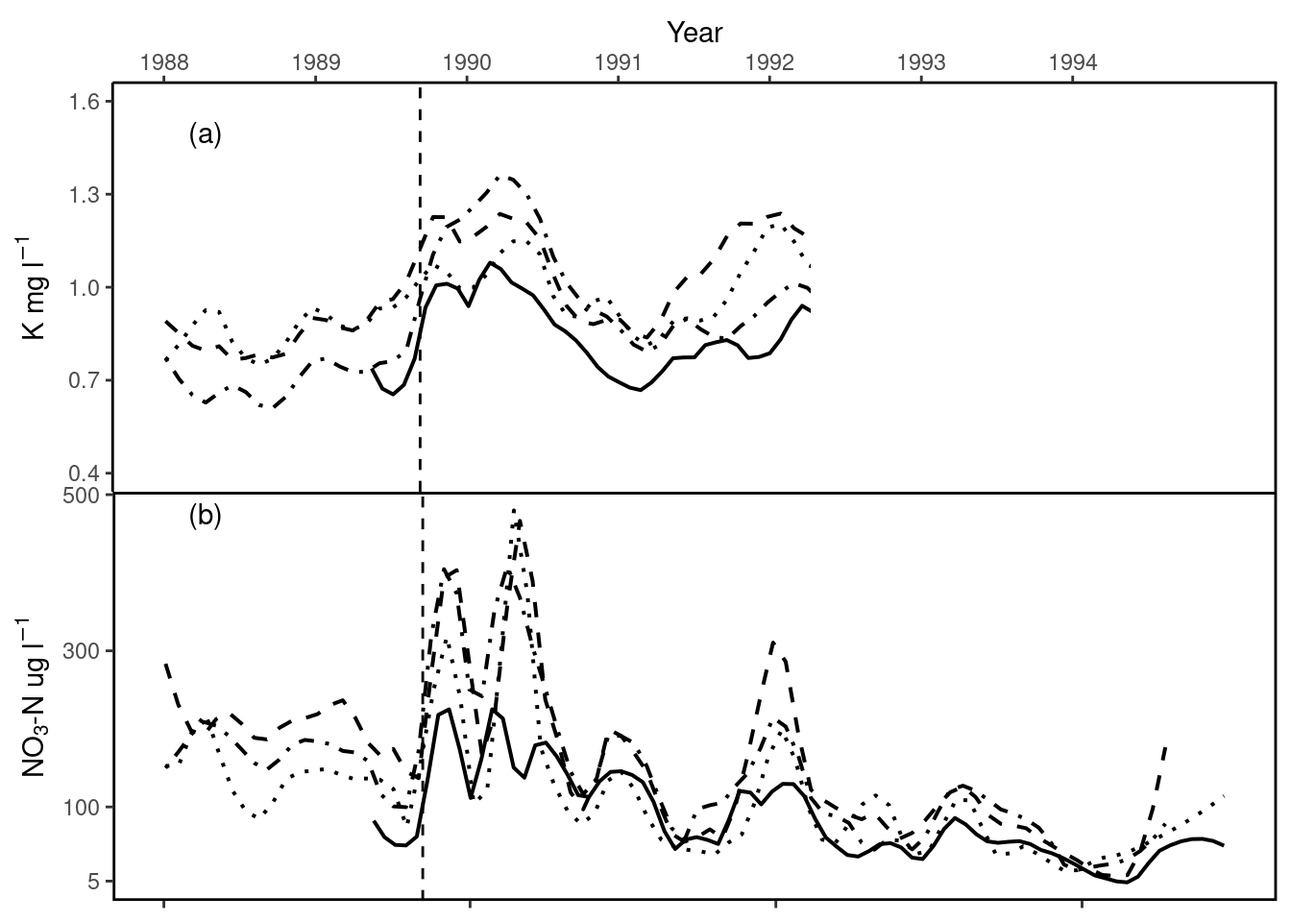
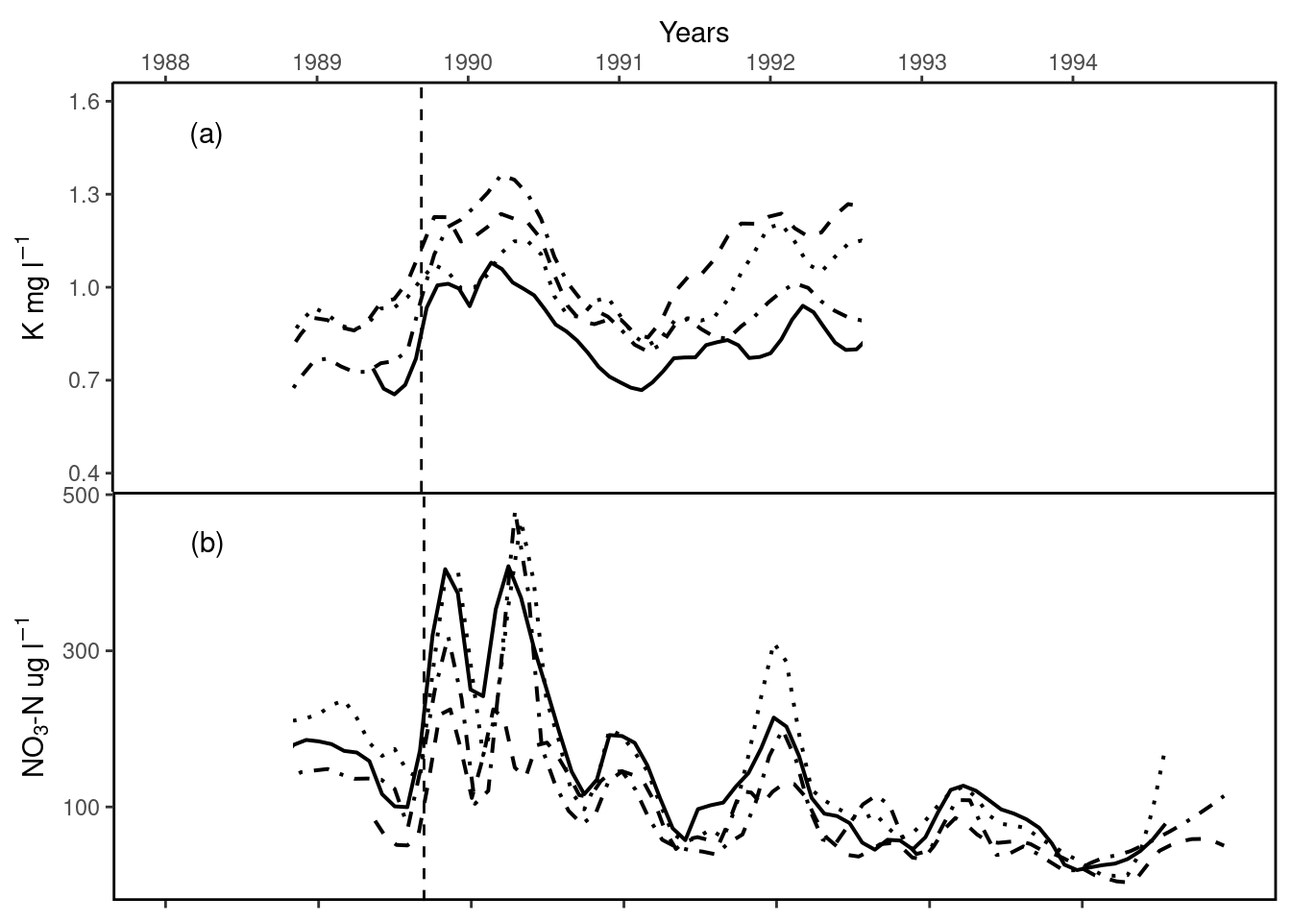
changes to quarto doc

diff --git a/ggplot_gurus_report.html b/ggplot_gurus_report.html
@@ -6,7 +6,6 @@
 
 <meta name="viewport" content="width=device-width, initial-scale=1.0, user-scalable=yes">
 
-<meta name="author" content="Kimmy, Ryan, Kai, Jo">
 
 <title>ggplot() gurus</title>
 <style>
@@ -155,7 +154,7 @@ code span.wa { color: #60a0b0; font-weight: bold; font-style: italic; } /* Warni
 <span id="cb2-2"><a href="#cb2-2" aria-hidden="true" tabindex="-1"></a><span class="fu">library</span>(janitor)</span>
 <span id="cb2-3"><a href="#cb2-3" aria-hidden="true" tabindex="-1"></a><span class="fu">library</span>(dplyr)</span>
 <span id="cb2-4"><a href="#cb2-4" aria-hidden="true" tabindex="-1"></a></span>
-<span id="cb2-5"><a href="#cb2-5" aria-hidden="true" tabindex="-1"></a><span class="co"># clean data names and select columns of interest(sample date, K, NO3_N)</span></span>
+<span id="cb2-5"><a href="#cb2-5" aria-hidden="true" tabindex="-1"></a><span class="co"># clean data names and select columns of interest(sample date, K, NO3_N) ----</span></span>
 <span id="cb2-6"><a href="#cb2-6" aria-hidden="true" tabindex="-1"></a>bq1_tidy <span class="ot">&lt;-</span> bq1 <span class="sc">%&gt;%</span></span>
 <span id="cb2-7"><a href="#cb2-7" aria-hidden="true" tabindex="-1"></a>  <span class="fu">select</span>(Sample_Date, K, <span class="st">`</span><span class="at">NO3-N</span><span class="st">`</span>) <span class="sc">%&gt;%</span></span>
 <span id="cb2-8"><a href="#cb2-8" aria-hidden="true" tabindex="-1"></a>  <span class="fu">clean_names</span>()</span>
@@ -175,7 +174,7 @@ code span.wa { color: #60a0b0; font-weight: bold; font-style: italic; } /* Warni
 <span id="cb2-22"><a href="#cb2-22" aria-hidden="true" tabindex="-1"></a>  <span class="fu">select</span>(Sample_Date, K, <span class="st">`</span><span class="at">NO3-N</span><span class="st">`</span>) <span class="sc">%&gt;%</span></span>
 <span id="cb2-23"><a href="#cb2-23" aria-hidden="true" tabindex="-1"></a>  <span class="fu">clean_names</span>()</span>
 <span id="cb2-24"><a href="#cb2-24" aria-hidden="true" tabindex="-1"></a></span>
-<span id="cb2-25"><a href="#cb2-25" aria-hidden="true" tabindex="-1"></a><span class="co"># filter dates between 1988 and 1994</span></span>
+<span id="cb2-25"><a href="#cb2-25" aria-hidden="true" tabindex="-1"></a><span class="co"># filter dates between 1988 and 1994 ----</span></span>
 <span id="cb2-26"><a href="#cb2-26" aria-hidden="true" tabindex="-1"></a>bq3_tidy <span class="ot">&lt;-</span> bq3_tidy <span class="sc">%&gt;%</span></span>
 <span id="cb2-27"><a href="#cb2-27" aria-hidden="true" tabindex="-1"></a>  <span class="fu">filter</span>(<span class="fu">between</span>(sample_date, <span class="fu">as.Date</span>(<span class="st">'1988-01-01'</span>), <span class="fu">as.Date</span>(<span class="st">'1994-12-31'</span>)))</span>
 <span id="cb2-28"><a href="#cb2-28" aria-hidden="true" tabindex="-1"></a></span>
@@ -205,7 +204,7 @@ code span.wa { color: #60a0b0; font-weight: bold; font-style: italic; } /* Warni
 <span id="cb3-13"><a href="#cb3-13" aria-hidden="true" tabindex="-1"></a>                     <span class="at">breaks =</span> <span class="fu">seq.Date</span>(<span class="at">from =</span> <span class="fu">as.Date</span>(<span class="st">"1988-01-01"</span>),</span>
 <span id="cb3-14"><a href="#cb3-14" aria-hidden="true" tabindex="-1"></a>                                       <span class="at">to =</span> <span class="fu">as.Date</span>(<span class="st">"1994-01-01"</span>) , <span class="at">by =</span> <span class="st">"1 year"</span>)) <span class="sc">+</span></span>
 <span id="cb3-15"><a href="#cb3-15" aria-hidden="true" tabindex="-1"></a>  <span class="fu">scale_y_continuous</span>(<span class="at">breaks=</span><span class="fu">seq</span>(<span class="fl">0.4</span>, <span class="fl">1.6</span>, <span class="at">by =</span> <span class="fl">0.3</span>), <span class="at">limits =</span> <span class="fu">c</span>(<span class="fl">0.4</span>, <span class="fl">1.6</span>)) <span class="sc">+</span></span>
-<span id="cb3-16"><a href="#cb3-16" aria-hidden="true" tabindex="-1"></a>  <span class="fu">labs</span>(<span class="at">x =</span> <span class="st">"Year"</span>, <span class="at">y =</span> <span class="fu">expression</span>(<span class="st">"K mg l"</span><span class="sc">^-</span><span class="dv">1</span>)) <span class="sc">+</span></span>
+<span id="cb3-16"><a href="#cb3-16" aria-hidden="true" tabindex="-1"></a>  <span class="fu">labs</span>(<span class="at">x =</span> <span class="st">"Years"</span>, <span class="at">y =</span> <span class="fu">expression</span>(<span class="st">"K mg l"</span><span class="sc">^-</span><span class="dv">1</span>)) <span class="sc">+</span></span>
 <span id="cb3-17"><a href="#cb3-17" aria-hidden="true" tabindex="-1"></a>  <span class="fu">theme</span>(<span class="at">plot.margin =</span> <span class="fu">margin</span>(<span class="dv">0</span>, <span class="dv">0</span>, <span class="dv">0</span>, <span class="dv">0</span>),</span>
 <span id="cb3-18"><a href="#cb3-18" aria-hidden="true" tabindex="-1"></a>        <span class="at">panel.spacing =</span> <span class="fu">unit</span>(<span class="dv">0</span>, <span class="st">"lines"</span>),</span>
 <span id="cb3-19"><a href="#cb3-19" aria-hidden="true" tabindex="-1"></a>        <span class="at">panel.background =</span> <span class="fu">element_blank</span>(),</span>
@@ -214,43 +213,56 @@ code span.wa { color: #60a0b0; font-weight: bold; font-style: italic; } /* Warni
 <span id="cb3-22"><a href="#cb3-22" aria-hidden="true" tabindex="-1"></a>        <span class="at">axis.line.y.right =</span>  <span class="fu">element_line</span>(<span class="at">colour =</span> <span class="st">"black"</span>,<span class="at">linewidth=</span><span class="fl">0.5</span>),</span>
 <span id="cb3-23"><a href="#cb3-23" aria-hidden="true" tabindex="-1"></a>        <span class="at">axis.line.y.left =</span>  <span class="fu">element_line</span>(<span class="at">colour =</span> <span class="st">"black"</span>,<span class="at">linewidth=</span><span class="fl">0.5</span>)) <span class="sc">+</span></span>
 <span id="cb3-24"><a href="#cb3-24" aria-hidden="true" tabindex="-1"></a>  <span class="fu">geom_vline</span>(<span class="at">xintercept =</span> <span class="fu">as.numeric</span>(<span class="fu">as.Date</span>(<span class="st">"1989-09-10"</span>)), </span>
-<span id="cb3-25"><a href="#cb3-25" aria-hidden="true" tabindex="-1"></a>           <span class="at">color =</span> <span class="st">"black"</span>, <span class="at">linetype =</span> <span class="st">"dashed"</span>) <span class="sc">+</span></span>
+<span id="cb3-25"><a href="#cb3-25" aria-hidden="true" tabindex="-1"></a>             <span class="at">color =</span> <span class="st">"black"</span>, <span class="at">linetype =</span> <span class="st">"dashed"</span>) <span class="sc">+</span></span>
 <span id="cb3-26"><a href="#cb3-26" aria-hidden="true" tabindex="-1"></a>  <span class="fu">annotate</span>(<span class="st">"text"</span>, <span class="at">x =</span> <span class="fu">as.numeric</span>(<span class="fu">as.Date</span>(<span class="st">"1988-04-10"</span>)),</span>
 <span id="cb3-27"><a href="#cb3-27" aria-hidden="true" tabindex="-1"></a>           <span class="at">y =</span> <span class="fl">1.5</span>, <span class="at">label =</span> <span class="st">"(a)"</span>, <span class="at">color =</span> <span class="st">"black"</span>) <span class="sc">+</span></span>
 <span id="cb3-28"><a href="#cb3-28" aria-hidden="true" tabindex="-1"></a>  <span class="fu">annotate</span>(<span class="at">geom =</span> <span class="st">'segment'</span>, <span class="at">x =</span> <span class="cn">Inf</span>, <span class="at">xend =</span> <span class="cn">Inf</span>, <span class="at">color =</span> <span class="st">'black'</span>, <span class="at">y =</span> <span class="sc">-</span><span class="cn">Inf</span>, <span class="at">yend =</span> <span class="cn">Inf</span>, <span class="at">size =</span> <span class="dv">1</span>) <span class="sc">+</span></span>
-<span id="cb3-29"><a href="#cb3-29" aria-hidden="true" tabindex="-1"></a>  <span class="fu">geom_rect</span>(<span class="fu">aes</span>(<span class="at">xmin =</span> <span class="fu">as.Date</span>(<span class="st">"1992-04-10"</span>),</span>
+<span id="cb3-29"><a href="#cb3-29" aria-hidden="true" tabindex="-1"></a>  <span class="fu">geom_rect</span>(<span class="fu">aes</span>(<span class="at">xmin =</span> <span class="fu">as.Date</span>(<span class="st">"1992-08-10"</span>),</span>
 <span id="cb3-30"><a href="#cb3-30" aria-hidden="true" tabindex="-1"></a>                <span class="at">xmax =</span> <span class="fu">as.Date</span>(<span class="st">"1995-01-01"</span>),</span>
 <span id="cb3-31"><a href="#cb3-31" aria-hidden="true" tabindex="-1"></a>                <span class="at">ymin =</span> <span class="fl">0.5</span>,</span>
 <span id="cb3-32"><a href="#cb3-32" aria-hidden="true" tabindex="-1"></a>                <span class="at">ymax =</span> <span class="fl">1.5</span>,),</span>
-<span id="cb3-33"><a href="#cb3-33" aria-hidden="true" tabindex="-1"></a>            <span class="at">fill =</span> <span class="st">"white"</span>)</span>
-<span id="cb3-34"><a href="#cb3-34" aria-hidden="true" tabindex="-1"></a></span>
-<span id="cb3-35"><a href="#cb3-35" aria-hidden="true" tabindex="-1"></a>  </span>
-<span id="cb3-36"><a href="#cb3-36" aria-hidden="true" tabindex="-1"></a>no3_n_plot <span class="ot">&lt;-</span> <span class="fu">ggplot</span>() <span class="sc">+</span>  </span>
-<span id="cb3-37"><a href="#cb3-37" aria-hidden="true" tabindex="-1"></a>  <span class="fu">geom_smooth</span>(<span class="at">data=</span> bq2_tidy, <span class="fu">aes</span>(<span class="at">x=</span> sample_date, <span class="at">y =</span> no3_n), <span class="at">linetype =</span> <span class="st">"dashed"</span></span>
-<span id="cb3-38"><a href="#cb3-38" aria-hidden="true" tabindex="-1"></a>              , <span class="at">color =</span> <span class="st">"black"</span>, <span class="at">linewidth =</span> .<span class="dv">7</span>, <span class="at">se =</span> <span class="cn">FALSE</span>, <span class="at">span =</span> <span class="fl">0.1</span>) <span class="sc">+</span></span>
-<span id="cb3-39"><a href="#cb3-39" aria-hidden="true" tabindex="-1"></a>  <span class="fu">geom_smooth</span>(<span class="at">data=</span> bq3_tidy, <span class="fu">aes</span>(<span class="at">x=</span> sample_date, <span class="at">y =</span> no3_n), <span class="at">linetype =</span> <span class="st">"dotdash"</span></span>
-<span id="cb3-40"><a href="#cb3-40" aria-hidden="true" tabindex="-1"></a>              , <span class="at">color =</span> <span class="st">"black"</span>, <span class="at">linewidth =</span> .<span class="dv">7</span>, <span class="at">se =</span> <span class="cn">FALSE</span>, <span class="at">span =</span> <span class="fl">0.1</span>) <span class="sc">+</span></span>
-<span id="cb3-41"><a href="#cb3-41" aria-hidden="true" tabindex="-1"></a>  <span class="fu">geom_smooth</span>(<span class="at">data=</span> prm_tidy, <span class="fu">aes</span>(<span class="at">x=</span> sample_date, <span class="at">y =</span> no3_n), <span class="at">linetype=</span> <span class="st">"solid"</span></span>
-<span id="cb3-42"><a href="#cb3-42" aria-hidden="true" tabindex="-1"></a>              , <span class="at">color =</span> <span class="st">"black"</span>, <span class="at">linewidth =</span> .<span class="dv">7</span>, <span class="at">se =</span> <span class="cn">FALSE</span>, <span class="at">span =</span> <span class="fl">0.1</span>) <span class="sc">+</span></span>
-<span id="cb3-43"><a href="#cb3-43" aria-hidden="true" tabindex="-1"></a>  <span class="fu">geom_smooth</span>(<span class="at">data=</span> bq1_tidy, <span class="fu">aes</span>(<span class="at">x=</span> sample_date, <span class="at">y =</span> no3_n), <span class="at">linetype =</span> <span class="st">"dotted"</span></span>
-<span id="cb3-44"><a href="#cb3-44" aria-hidden="true" tabindex="-1"></a>              , <span class="at">color =</span> <span class="st">"black"</span>, <span class="at">linewidth =</span> .<span class="dv">7</span>, <span class="at">se =</span> <span class="cn">FALSE</span>, <span class="at">span =</span> <span class="fl">0.1</span>) <span class="sc">+</span></span>
-<span id="cb3-45"><a href="#cb3-45" aria-hidden="true" tabindex="-1"></a>  <span class="fu">scale_y_continuous</span>(<span class="at">breaks=</span><span class="fu">c</span>(<span class="dv">5</span>, <span class="dv">100</span>, <span class="dv">300</span>, <span class="dv">500</span>)) <span class="sc">+</span> </span>
-<span id="cb3-46"><a href="#cb3-46" aria-hidden="true" tabindex="-1"></a>  <span class="fu">labs</span>(<span class="at">x =</span> <span class="st">" "</span>, <span class="at">y =</span> (<span class="fu">expression</span>(NO[<span class="dv">3</span>]<span class="sc">*</span><span class="st">"-N ug l"</span><span class="sc">^-</span><span class="dv">1</span>))) <span class="sc">+</span> </span>
-<span id="cb3-47"><a href="#cb3-47" aria-hidden="true" tabindex="-1"></a>  <span class="fu">theme</span>(<span class="at">axis.title.x =</span> <span class="fu">element_blank</span>(),</span>
-<span id="cb3-48"><a href="#cb3-48" aria-hidden="true" tabindex="-1"></a>      <span class="at">axis.text.x =</span> <span class="fu">element_blank</span>(),</span>
-<span id="cb3-49"><a href="#cb3-49" aria-hidden="true" tabindex="-1"></a>      <span class="at">plot.margin =</span> <span class="fu">margin</span>(<span class="dv">0</span>, <span class="dv">0</span>, <span class="dv">0</span>, <span class="dv">0</span>),</span>
-<span id="cb3-50"><a href="#cb3-50" aria-hidden="true" tabindex="-1"></a>      <span class="at">panel.spacing =</span> <span class="fu">unit</span>(<span class="dv">0</span>, <span class="st">"lines"</span>),</span>
-<span id="cb3-51"><a href="#cb3-51" aria-hidden="true" tabindex="-1"></a>      <span class="at">panel.background =</span> <span class="fu">element_blank</span>(),</span>
-<span id="cb3-52"><a href="#cb3-52" aria-hidden="true" tabindex="-1"></a>      <span class="at">panel.border =</span> <span class="fu">element_rect</span>(<span class="at">colour =</span> <span class="st">"black"</span>, <span class="at">fill=</span><span class="cn">NA</span>, <span class="at">size=</span><span class="dv">1</span>)) <span class="sc">+</span></span>
-<span id="cb3-53"><a href="#cb3-53" aria-hidden="true" tabindex="-1"></a>  <span class="fu">geom_vline</span>(<span class="at">xintercept =</span> <span class="fu">as.numeric</span>(<span class="fu">as.Date</span>(<span class="st">"1989-09-10"</span>)), </span>
-<span id="cb3-54"><a href="#cb3-54" aria-hidden="true" tabindex="-1"></a>             <span class="at">color =</span> <span class="st">"black"</span>, <span class="at">linetype =</span> <span class="st">"dashed"</span>) <span class="sc">+</span></span>
-<span id="cb3-55"><a href="#cb3-55" aria-hidden="true" tabindex="-1"></a>  <span class="fu">annotate</span>(<span class="st">"text"</span>, <span class="at">x =</span> (<span class="fu">as.Date</span>(<span class="st">"1988-04-10"</span>, <span class="st">"%Y-%m-%d"</span>)),</span>
-<span id="cb3-56"><a href="#cb3-56" aria-hidden="true" tabindex="-1"></a>           <span class="at">y =</span> <span class="dv">475</span>, <span class="at">label =</span> <span class="st">"(b)"</span>, <span class="at">color =</span> <span class="st">"black"</span>) </span>
-<span id="cb3-57"><a href="#cb3-57" aria-hidden="true" tabindex="-1"></a></span>
-<span id="cb3-58"><a href="#cb3-58" aria-hidden="true" tabindex="-1"></a>combined_plot <span class="ot">&lt;-</span> k_plot <span class="sc">/</span> no3_n_plot <span class="sc">+</span></span>
-<span id="cb3-59"><a href="#cb3-59" aria-hidden="true" tabindex="-1"></a>  <span class="fu">plot_layout</span>(<span class="at">ncol =</span> <span class="dv">1</span>, <span class="at">heights =</span> <span class="fu">c</span>(<span class="dv">1</span>, <span class="dv">1</span>))</span>
-<span id="cb3-60"><a href="#cb3-60" aria-hidden="true" tabindex="-1"></a></span>
-<span id="cb3-61"><a href="#cb3-61" aria-hidden="true" tabindex="-1"></a>combined_plot</span></code><button title="Copy to Clipboard" class="code-copy-button"><i class="bi"></i></button></pre></div>
+<span id="cb3-33"><a href="#cb3-33" aria-hidden="true" tabindex="-1"></a>            <span class="at">fill =</span> <span class="st">"white"</span>) <span class="sc">+</span></span>
+<span id="cb3-34"><a href="#cb3-34" aria-hidden="true" tabindex="-1"></a>  <span class="fu">geom_rect</span>(<span class="fu">aes</span>(<span class="at">xmin =</span> <span class="fu">as.Date</span>(<span class="st">"1988-01-01"</span>),</span>
+<span id="cb3-35"><a href="#cb3-35" aria-hidden="true" tabindex="-1"></a>                <span class="at">xmax =</span> <span class="fu">as.Date</span>(<span class="st">"1988-11-01"</span>),</span>
+<span id="cb3-36"><a href="#cb3-36" aria-hidden="true" tabindex="-1"></a>                <span class="at">ymin =</span> <span class="fl">0.5</span>,</span>
+<span id="cb3-37"><a href="#cb3-37" aria-hidden="true" tabindex="-1"></a>                <span class="at">ymax =</span> <span class="fl">1.3</span>,),</span>
+<span id="cb3-38"><a href="#cb3-38" aria-hidden="true" tabindex="-1"></a>            <span class="at">fill =</span> <span class="st">"white"</span>)</span>
+<span id="cb3-39"><a href="#cb3-39" aria-hidden="true" tabindex="-1"></a></span>
+<span id="cb3-40"><a href="#cb3-40" aria-hidden="true" tabindex="-1"></a></span>
+<span id="cb3-41"><a href="#cb3-41" aria-hidden="true" tabindex="-1"></a>no3_n_plot <span class="ot">&lt;-</span> <span class="fu">ggplot</span>() <span class="sc">+</span>  </span>
+<span id="cb3-42"><a href="#cb3-42" aria-hidden="true" tabindex="-1"></a>  <span class="fu">geom_smooth</span>(<span class="at">data=</span> bq2_tidy, <span class="fu">aes</span>(<span class="at">x=</span> sample_date, <span class="at">y =</span> no3_n), <span class="at">linetype =</span> <span class="st">"dotted"</span></span>
+<span id="cb3-43"><a href="#cb3-43" aria-hidden="true" tabindex="-1"></a>              , <span class="at">color =</span> <span class="st">"black"</span>, <span class="at">linewidth =</span> .<span class="dv">7</span>, <span class="at">se =</span> <span class="cn">FALSE</span>, <span class="at">span =</span> <span class="fl">0.1</span>) <span class="sc">+</span></span>
+<span id="cb3-44"><a href="#cb3-44" aria-hidden="true" tabindex="-1"></a>  <span class="fu">geom_smooth</span>(<span class="at">data=</span> bq3_tidy, <span class="fu">aes</span>(<span class="at">x=</span> sample_date, <span class="at">y =</span> no3_n), <span class="at">linetype =</span> <span class="st">"solid"</span></span>
+<span id="cb3-45"><a href="#cb3-45" aria-hidden="true" tabindex="-1"></a>              , <span class="at">color =</span> <span class="st">"black"</span>, <span class="at">linewidth =</span> .<span class="dv">7</span>, <span class="at">se =</span> <span class="cn">FALSE</span>, <span class="at">span =</span> <span class="fl">0.1</span>) <span class="sc">+</span></span>
+<span id="cb3-46"><a href="#cb3-46" aria-hidden="true" tabindex="-1"></a>  <span class="fu">geom_smooth</span>(<span class="at">data=</span> prm_tidy, <span class="fu">aes</span>(<span class="at">x=</span> sample_date, <span class="at">y =</span> no3_n), <span class="at">linetype=</span> <span class="st">"dashed"</span></span>
+<span id="cb3-47"><a href="#cb3-47" aria-hidden="true" tabindex="-1"></a>              , <span class="at">color =</span> <span class="st">"black"</span>, <span class="at">linewidth =</span> .<span class="dv">7</span>, <span class="at">se =</span> <span class="cn">FALSE</span>, <span class="at">span =</span> <span class="fl">0.1</span>) <span class="sc">+</span></span>
+<span id="cb3-48"><a href="#cb3-48" aria-hidden="true" tabindex="-1"></a>  <span class="fu">geom_smooth</span>(<span class="at">data=</span> bq1_tidy, <span class="fu">aes</span>(<span class="at">x=</span> sample_date, <span class="at">y =</span> no3_n), <span class="at">linetype =</span> <span class="st">"dotdash"</span></span>
+<span id="cb3-49"><a href="#cb3-49" aria-hidden="true" tabindex="-1"></a>              , <span class="at">color =</span> <span class="st">"black"</span>, <span class="at">linewidth =</span> .<span class="dv">7</span>, <span class="at">se =</span> <span class="cn">FALSE</span>, <span class="at">span =</span> <span class="fl">0.1</span>) <span class="sc">+</span></span>
+<span id="cb3-50"><a href="#cb3-50" aria-hidden="true" tabindex="-1"></a>  <span class="fu">scale_y_continuous</span>(<span class="at">breaks =</span> <span class="fu">c</span>(<span class="dv">100</span>, <span class="dv">300</span>, <span class="dv">500</span>))  <span class="sc">+</span></span>
+<span id="cb3-51"><a href="#cb3-51" aria-hidden="true" tabindex="-1"></a>  <span class="fu">scale_x_continuous</span>(<span class="at">position =</span> <span class="st">"bottom"</span>, <span class="at">labels =</span> <span class="dv">1988</span><span class="sc">:</span><span class="dv">1994</span>,</span>
+<span id="cb3-52"><a href="#cb3-52" aria-hidden="true" tabindex="-1"></a>                     <span class="at">breaks =</span> <span class="fu">seq.Date</span>(<span class="at">from =</span> <span class="fu">as.Date</span>(<span class="st">"1988-01-01"</span>),</span>
+<span id="cb3-53"><a href="#cb3-53" aria-hidden="true" tabindex="-1"></a>                                       <span class="at">to =</span> <span class="fu">as.Date</span>(<span class="st">"1994-01-01"</span>) , <span class="at">by =</span> <span class="st">"1 year"</span>)) <span class="sc">+</span></span>
+<span id="cb3-54"><a href="#cb3-54" aria-hidden="true" tabindex="-1"></a>  <span class="fu">labs</span>(<span class="at">x =</span> <span class="st">" "</span>, <span class="at">y =</span> (<span class="fu">expression</span>(NO[<span class="dv">3</span>]<span class="sc">*</span><span class="st">"-N ug l"</span><span class="sc">^-</span><span class="dv">1</span>))) <span class="sc">+</span> </span>
+<span id="cb3-55"><a href="#cb3-55" aria-hidden="true" tabindex="-1"></a>  <span class="fu">theme</span>(<span class="at">axis.title.x =</span> <span class="fu">element_blank</span>(),</span>
+<span id="cb3-56"><a href="#cb3-56" aria-hidden="true" tabindex="-1"></a>        <span class="at">axis.text.x =</span> <span class="fu">element_blank</span>(),</span>
+<span id="cb3-57"><a href="#cb3-57" aria-hidden="true" tabindex="-1"></a>        <span class="at">plot.margin =</span> <span class="fu">margin</span>(<span class="dv">0</span>, <span class="dv">0</span>, <span class="dv">0</span>, <span class="dv">0</span>),</span>
+<span id="cb3-58"><a href="#cb3-58" aria-hidden="true" tabindex="-1"></a>        <span class="at">panel.spacing =</span> <span class="fu">unit</span>(<span class="dv">0</span>, <span class="st">"lines"</span>),</span>
+<span id="cb3-59"><a href="#cb3-59" aria-hidden="true" tabindex="-1"></a>        <span class="at">panel.background =</span> <span class="fu">element_blank</span>(),</span>
+<span id="cb3-60"><a href="#cb3-60" aria-hidden="true" tabindex="-1"></a>        <span class="at">panel.border =</span> <span class="fu">element_rect</span>(<span class="at">colour =</span> <span class="st">"black"</span>, <span class="at">fill=</span><span class="cn">NA</span>, <span class="at">size=</span><span class="dv">1</span>)) <span class="sc">+</span></span>
+<span id="cb3-61"><a href="#cb3-61" aria-hidden="true" tabindex="-1"></a>  <span class="fu">geom_vline</span>(<span class="at">xintercept =</span> <span class="fu">as.numeric</span>(<span class="fu">as.Date</span>(<span class="st">"1989-09-10"</span>)), </span>
+<span id="cb3-62"><a href="#cb3-62" aria-hidden="true" tabindex="-1"></a>             <span class="at">color =</span> <span class="st">"black"</span>, <span class="at">linetype =</span> <span class="st">"dashed"</span>) <span class="sc">+</span></span>
+<span id="cb3-63"><a href="#cb3-63" aria-hidden="true" tabindex="-1"></a>  <span class="fu">annotate</span>(<span class="st">"text"</span>, <span class="at">x =</span> (<span class="fu">as.Date</span>(<span class="st">"1988-04-10"</span>, <span class="st">"%Y-%m-%d"</span>)),</span>
+<span id="cb3-64"><a href="#cb3-64" aria-hidden="true" tabindex="-1"></a>           <span class="at">y =</span> <span class="dv">440</span>, <span class="at">label =</span> <span class="st">"(b)"</span>, <span class="at">color =</span> <span class="st">"black"</span>)  <span class="sc">+</span></span>
+<span id="cb3-65"><a href="#cb3-65" aria-hidden="true" tabindex="-1"></a>  <span class="fu">geom_rect</span>(<span class="fu">aes</span>(<span class="at">xmin =</span> <span class="fu">as.Date</span>(<span class="st">"1988-01-01"</span>),</span>
+<span id="cb3-66"><a href="#cb3-66" aria-hidden="true" tabindex="-1"></a>                <span class="at">xmax =</span> <span class="fu">as.Date</span>(<span class="st">"1988-11-01"</span>),</span>
+<span id="cb3-67"><a href="#cb3-67" aria-hidden="true" tabindex="-1"></a>                <span class="at">ymin =</span> <span class="dv">10</span>,</span>
+<span id="cb3-68"><a href="#cb3-68" aria-hidden="true" tabindex="-1"></a>                <span class="at">ymax =</span> <span class="dv">300</span>),</span>
+<span id="cb3-69"><a href="#cb3-69" aria-hidden="true" tabindex="-1"></a>            <span class="at">fill =</span> <span class="st">"white"</span>)</span>
+<span id="cb3-70"><a href="#cb3-70" aria-hidden="true" tabindex="-1"></a></span>
+<span id="cb3-71"><a href="#cb3-71" aria-hidden="true" tabindex="-1"></a>combined_plot <span class="ot">&lt;-</span> k_plot <span class="sc">/</span> no3_n_plot <span class="sc">+</span></span>
+<span id="cb3-72"><a href="#cb3-72" aria-hidden="true" tabindex="-1"></a>  <span class="fu">plot_layout</span>(<span class="at">ncol =</span> <span class="dv">1</span>, <span class="at">heights =</span> <span class="fu">c</span>(<span class="dv">1</span>, <span class="dv">1</span>))</span>
+<span id="cb3-73"><a href="#cb3-73" aria-hidden="true" tabindex="-1"></a></span>
+<span id="cb3-74"><a href="#cb3-74" aria-hidden="true" tabindex="-1"></a>combined_plot</span></code><button title="Copy to Clipboard" class="code-copy-button"><i class="bi"></i></button></pre></div>
 <div class="cell-output-display">
 <p><img src="ggplot_gurus_report_files/figure-html/unnamed-chunk-3-1.png" class="img-fluid" width="672"></p>
 </div>
@@ -264,7 +276,7 @@ code span.wa { color: #60a0b0; font-weight: bold; font-style: italic; } /* Warni
 <span id="cb4-2"><a href="#cb4-2" aria-hidden="true" tabindex="-1"></a><span class="fu">library</span>(janitor)</span>
 <span id="cb4-3"><a href="#cb4-3" aria-hidden="true" tabindex="-1"></a><span class="fu">library</span>(dplyr)</span>
 <span id="cb4-4"><a href="#cb4-4" aria-hidden="true" tabindex="-1"></a></span>
-<span id="cb4-5"><a href="#cb4-5" aria-hidden="true" tabindex="-1"></a><span class="co"># data_read ---------------------------------------------------------------</span></span>
+<span id="cb4-5"><a href="#cb4-5" aria-hidden="true" tabindex="-1"></a><span class="co"># data_read ----</span></span>
 <span id="cb4-6"><a href="#cb4-6" aria-hidden="true" tabindex="-1"></a></span>
 <span id="cb4-7"><a href="#cb4-7" aria-hidden="true" tabindex="-1"></a></span>
 <span id="cb4-8"><a href="#cb4-8" aria-hidden="true" tabindex="-1"></a>ggg_path <span class="ot">&lt;-</span> <span class="st">"/courses/EDS214/group_project/2024/ggplot-gurus/raw_data"</span></span>
@@ -278,7 +290,7 @@ code span.wa { color: #60a0b0; font-weight: bold; font-style: italic; } /* Warni
 <span id="cb4-16"><a href="#cb4-16" aria-hidden="true" tabindex="-1"></a>prm <span class="ot">&lt;-</span> <span class="fu">read_csv</span>(<span class="fu">file.path</span>(ggg_path, <span class="st">"RioMameyesPuenteRoto.csv"</span>))</span>
 <span id="cb4-17"><a href="#cb4-17" aria-hidden="true" tabindex="-1"></a></span>
 <span id="cb4-18"><a href="#cb4-18" aria-hidden="true" tabindex="-1"></a></span>
-<span id="cb4-19"><a href="#cb4-19" aria-hidden="true" tabindex="-1"></a><span class="co"># data_clean --------------------------------------------------------------</span></span>
+<span id="cb4-19"><a href="#cb4-19" aria-hidden="true" tabindex="-1"></a><span class="co"># data_clean ----</span></span>
 <span id="cb4-20"><a href="#cb4-20" aria-hidden="true" tabindex="-1"></a></span>
 <span id="cb4-21"><a href="#cb4-21" aria-hidden="true" tabindex="-1"></a>bq1_tidy_maria <span class="ot">&lt;-</span> bq1 <span class="sc">%&gt;%</span></span>
 <span id="cb4-22"><a href="#cb4-22" aria-hidden="true" tabindex="-1"></a>  <span class="fu">select</span>(Sample_Date, K, <span class="st">`</span><span class="at">NO3-N</span><span class="st">`</span>) <span class="sc">%&gt;%</span></span>
@@ -312,7 +324,7 @@ code span.wa { color: #60a0b0; font-weight: bold; font-style: italic; } /* Warni
 <span id="cb4-50"><a href="#cb4-50" aria-hidden="true" tabindex="-1"></a></span>
 <span id="cb4-51"><a href="#cb4-51" aria-hidden="true" tabindex="-1"></a></span>
 <span id="cb4-52"><a href="#cb4-52" aria-hidden="true" tabindex="-1"></a></span>
-<span id="cb4-53"><a href="#cb4-53" aria-hidden="true" tabindex="-1"></a><span class="co"># data_viz ----------------------------------------------------------------</span></span>
+<span id="cb4-53"><a href="#cb4-53" aria-hidden="true" tabindex="-1"></a><span class="co"># data_viz ----</span></span>
 <span id="cb4-54"><a href="#cb4-54" aria-hidden="true" tabindex="-1"></a></span>
 <span id="cb4-55"><a href="#cb4-55" aria-hidden="true" tabindex="-1"></a><span class="co">#048A81</span></span>
 <span id="cb4-56"><a href="#cb4-56" aria-hidden="true" tabindex="-1"></a><span class="co">#06D6A0</span></span>
@@ -336,37 +348,26 @@ code span.wa { color: #60a0b0; font-weight: bold; font-style: italic; } /* Warni
 <span id="cb4-74"><a href="#cb4-74" aria-hidden="true" tabindex="-1"></a>        <span class="at">plot.title =</span> <span class="fu">element_text</span>(<span class="at">hjust =</span> <span class="fl">0.5</span>, <span class="at">size=</span> <span class="dv">25</span>)) <span class="sc">+</span></span>
 <span id="cb4-75"><a href="#cb4-75" aria-hidden="true" tabindex="-1"></a>  <span class="fu">labs</span>(<span class="at">x=</span><span class="st">"Sample Date"</span>, <span class="at">y=</span><span class="st">"Potassium Content</span><span class="sc">\n</span><span class="st">(mg/L)"</span>, <span class="at">title =</span> <span class="st">"Effects of Hurricane Maria on Potassium Content in Luquillo Creeks"</span>)</span>
 <span id="cb4-76"><a href="#cb4-76" aria-hidden="true" tabindex="-1"></a> </span>
-<span id="cb4-77"><a href="#cb4-77" aria-hidden="true" tabindex="-1"></a><span class="do">#####</span></span>
-<span id="cb4-78"><a href="#cb4-78" aria-hidden="true" tabindex="-1"></a></span>
-<span id="cb4-79"><a href="#cb4-79" aria-hidden="true" tabindex="-1"></a>no3_n_maria <span class="ot">&lt;-</span> <span class="fu">ggplot</span>() <span class="sc">+</span>  </span>
-<span id="cb4-80"><a href="#cb4-80" aria-hidden="true" tabindex="-1"></a>  <span class="fu">geom_line</span>(<span class="at">data =</span> bq1_tidy_maria, <span class="fu">aes</span>(<span class="at">x =</span> sample_date, <span class="at">y =</span> no3_n, <span class="at">color =</span> <span class="st">"BQ1"</span>), <span class="at">size =</span> <span class="fl">1.5</span>) <span class="sc">+</span></span>
-<span id="cb4-81"><a href="#cb4-81" aria-hidden="true" tabindex="-1"></a>  <span class="fu">geom_line</span>(<span class="at">data =</span> bq2_tidy_maria, <span class="fu">aes</span>(<span class="at">x =</span> sample_date, <span class="at">y =</span> no3_n, <span class="at">color =</span> <span class="st">"BQ2"</span>), <span class="at">size =</span> <span class="fl">1.5</span>) <span class="sc">+</span></span>
-<span id="cb4-82"><a href="#cb4-82" aria-hidden="true" tabindex="-1"></a>  <span class="fu">geom_line</span>(<span class="at">data =</span> bq3_tidy_maria, <span class="fu">aes</span>(<span class="at">x =</span> sample_date, <span class="at">y =</span> no3_n, <span class="at">color =</span> <span class="st">"BQ3"</span>), <span class="at">size =</span> <span class="fl">1.5</span>) <span class="sc">+</span></span>
-<span id="cb4-83"><a href="#cb4-83" aria-hidden="true" tabindex="-1"></a>  <span class="fu">geom_line</span>(<span class="at">data =</span> prm_tidy_maria, <span class="fu">aes</span>(<span class="at">x =</span> sample_date, <span class="at">y =</span> no3_n, <span class="at">color =</span> <span class="st">"PRM"</span>), <span class="at">size =</span> <span class="fl">1.5</span>) <span class="sc">+</span></span>
-<span id="cb4-84"><a href="#cb4-84" aria-hidden="true" tabindex="-1"></a>  <span class="fu">scale_color_manual</span>(<span class="at">values =</span> <span class="fu">c</span>(<span class="st">"BQ1"</span> <span class="ot">=</span> <span class="st">"#048A81"</span>, <span class="st">"BQ2"</span> <span class="ot">=</span> <span class="st">"#06D6A0"</span>, <span class="st">"BQ3"</span> <span class="ot">=</span> <span class="st">"#54C6EB"</span>, <span class="st">"PRM"</span> <span class="ot">=</span> <span class="st">"#8A89C0"</span>)) <span class="sc">+</span></span>
-<span id="cb4-85"><a href="#cb4-85" aria-hidden="true" tabindex="-1"></a>  <span class="fu">geom_vline</span>(<span class="at">xintercept =</span> <span class="fu">as.Date</span>(<span class="st">"2017-09-16"</span>), <span class="at">linetype =</span> <span class="st">"dashed"</span>, <span class="at">color=</span><span class="st">"navy"</span>) <span class="sc">+</span></span>
-<span id="cb4-86"><a href="#cb4-86" aria-hidden="true" tabindex="-1"></a>  <span class="fu">annotate</span>(<span class="st">"text"</span>, <span class="at">x=</span><span class="fu">as.Date</span>(<span class="st">"2017-07-10"</span>), <span class="at">y=</span><span class="dv">700</span>, <span class="at">label=</span> <span class="st">"Hurricane Maria</span><span class="sc">\n</span><span class="st">September 16, 2017"</span>) <span class="sc">+</span></span>
-<span id="cb4-87"><a href="#cb4-87" aria-hidden="true" tabindex="-1"></a>  <span class="fu">labs</span>(<span class="at">color =</span> <span class="st">"Sites"</span>) <span class="sc">+</span></span>
-<span id="cb4-88"><a href="#cb4-88" aria-hidden="true" tabindex="-1"></a>  <span class="fu">theme</span>(<span class="at">legend.position =</span> <span class="fu">c</span>(<span class="fl">0.2</span>, <span class="fl">0.8</span>),</span>
-<span id="cb4-89"><a href="#cb4-89" aria-hidden="true" tabindex="-1"></a>        <span class="at">legend.background =</span> <span class="fu">element_blank</span>(),</span>
-<span id="cb4-90"><a href="#cb4-90" aria-hidden="true" tabindex="-1"></a>        <span class="at">legend.key.size =</span> <span class="fu">unit</span>(<span class="dv">10</span>, <span class="st">'cm'</span>),</span>
-<span id="cb4-91"><a href="#cb4-91" aria-hidden="true" tabindex="-1"></a>        <span class="at">legend.key.height  =</span> <span class="fu">unit</span>(<span class="dv">1</span>, <span class="st">'cm'</span>),</span>
-<span id="cb4-92"><a href="#cb4-92" aria-hidden="true" tabindex="-1"></a>        <span class="at">legend.key.width =</span> <span class="fu">unit</span>(<span class="dv">4</span>, <span class="st">'cm'</span>),</span>
-<span id="cb4-93"><a href="#cb4-93" aria-hidden="true" tabindex="-1"></a>        <span class="at">plot.title =</span> <span class="fu">element_text</span>(<span class="at">hjust =</span> <span class="fl">0.5</span>, <span class="at">size=</span> <span class="dv">25</span>)) <span class="sc">+</span></span>
-<span id="cb4-94"><a href="#cb4-94" aria-hidden="true" tabindex="-1"></a>  <span class="fu">labs</span>(<span class="at">x=</span><span class="st">"Sample Date"</span>, <span class="at">y=</span><span class="st">"Nitrate Content</span><span class="sc">\n</span><span class="st">(μg/L)"</span>, <span class="at">title =</span> <span class="st">"Effects of Hurricane Maria on Nitrate Content in Luquillo Creeks"</span>)</span>
-<span id="cb4-95"><a href="#cb4-95" aria-hidden="true" tabindex="-1"></a></span>
-<span id="cb4-96"><a href="#cb4-96" aria-hidden="true" tabindex="-1"></a></span>
-<span id="cb4-97"><a href="#cb4-97" aria-hidden="true" tabindex="-1"></a><span class="do">######</span></span>
-<span id="cb4-98"><a href="#cb4-98" aria-hidden="true" tabindex="-1"></a></span>
-<span id="cb4-99"><a href="#cb4-99" aria-hidden="true" tabindex="-1"></a>k_plot_maria</span></code><button title="Copy to Clipboard" class="code-copy-button"><i class="bi"></i></button></pre></div>
-<div class="cell-output-display">
-<p><img src="ggplot_gurus_report_files/figure-html/unnamed-chunk-4-1.png" class="img-fluid" width="672"></p>
+<span id="cb4-77"><a href="#cb4-77" aria-hidden="true" tabindex="-1"></a></span>
+<span id="cb4-78"><a href="#cb4-78" aria-hidden="true" tabindex="-1"></a>no3_n_maria <span class="ot">&lt;-</span> <span class="fu">ggplot</span>() <span class="sc">+</span>  </span>
+<span id="cb4-79"><a href="#cb4-79" aria-hidden="true" tabindex="-1"></a>  <span class="fu">geom_line</span>(<span class="at">data =</span> bq1_tidy_maria, <span class="fu">aes</span>(<span class="at">x =</span> sample_date, <span class="at">y =</span> no3_n, <span class="at">color =</span> <span class="st">"BQ1"</span>), <span class="at">size =</span> <span class="fl">1.5</span>) <span class="sc">+</span></span>
+<span id="cb4-80"><a href="#cb4-80" aria-hidden="true" tabindex="-1"></a>  <span class="fu">geom_line</span>(<span class="at">data =</span> bq2_tidy_maria, <span class="fu">aes</span>(<span class="at">x =</span> sample_date, <span class="at">y =</span> no3_n, <span class="at">color =</span> <span class="st">"BQ2"</span>), <span class="at">size =</span> <span class="fl">1.5</span>) <span class="sc">+</span></span>
+<span id="cb4-81"><a href="#cb4-81" aria-hidden="true" tabindex="-1"></a>  <span class="fu">geom_line</span>(<span class="at">data =</span> bq3_tidy_maria, <span class="fu">aes</span>(<span class="at">x =</span> sample_date, <span class="at">y =</span> no3_n, <span class="at">color =</span> <span class="st">"BQ3"</span>), <span class="at">size =</span> <span class="fl">1.5</span>) <span class="sc">+</span></span>
+<span id="cb4-82"><a href="#cb4-82" aria-hidden="true" tabindex="-1"></a>  <span class="fu">geom_line</span>(<span class="at">data =</span> prm_tidy_maria, <span class="fu">aes</span>(<span class="at">x =</span> sample_date, <span class="at">y =</span> no3_n, <span class="at">color =</span> <span class="st">"PRM"</span>), <span class="at">size =</span> <span class="fl">1.5</span>) <span class="sc">+</span></span>
+<span id="cb4-83"><a href="#cb4-83" aria-hidden="true" tabindex="-1"></a>  <span class="fu">scale_color_manual</span>(<span class="at">values =</span> <span class="fu">c</span>(<span class="st">"BQ1"</span> <span class="ot">=</span> <span class="st">"#048A81"</span>, <span class="st">"BQ2"</span> <span class="ot">=</span> <span class="st">"#06D6A0"</span>, <span class="st">"BQ3"</span> <span class="ot">=</span> <span class="st">"#54C6EB"</span>, <span class="st">"PRM"</span> <span class="ot">=</span> <span class="st">"#8A89C0"</span>)) <span class="sc">+</span></span>
+<span id="cb4-84"><a href="#cb4-84" aria-hidden="true" tabindex="-1"></a>  <span class="fu">geom_vline</span>(<span class="at">xintercept =</span> <span class="fu">as.Date</span>(<span class="st">"2017-09-16"</span>), <span class="at">linetype =</span> <span class="st">"dashed"</span>, <span class="at">color=</span><span class="st">"navy"</span>) <span class="sc">+</span></span>
+<span id="cb4-85"><a href="#cb4-85" aria-hidden="true" tabindex="-1"></a>  <span class="fu">annotate</span>(<span class="st">"text"</span>, <span class="at">x=</span><span class="fu">as.Date</span>(<span class="st">"2017-07-10"</span>), <span class="at">y=</span><span class="dv">700</span>, <span class="at">label=</span> <span class="st">"Hurricane Maria</span><span class="sc">\n</span><span class="st">September 16, 2017"</span>) <span class="sc">+</span></span>
+<span id="cb4-86"><a href="#cb4-86" aria-hidden="true" tabindex="-1"></a>  <span class="fu">labs</span>(<span class="at">color =</span> <span class="st">"Sites"</span>) <span class="sc">+</span></span>
+<span id="cb4-87"><a href="#cb4-87" aria-hidden="true" tabindex="-1"></a>  <span class="fu">theme</span>(<span class="at">legend.position =</span> <span class="fu">c</span>(<span class="fl">0.2</span>, <span class="fl">0.8</span>),</span>
+<span id="cb4-88"><a href="#cb4-88" aria-hidden="true" tabindex="-1"></a>        <span class="at">legend.background =</span> <span class="fu">element_blank</span>(),</span>
+<span id="cb4-89"><a href="#cb4-89" aria-hidden="true" tabindex="-1"></a>        <span class="at">legend.key.size =</span> <span class="fu">unit</span>(<span class="dv">10</span>, <span class="st">'cm'</span>),</span>
+<span id="cb4-90"><a href="#cb4-90" aria-hidden="true" tabindex="-1"></a>        <span class="at">legend.key.height  =</span> <span class="fu">unit</span>(<span class="dv">1</span>, <span class="st">'cm'</span>),</span>
+<span id="cb4-91"><a href="#cb4-91" aria-hidden="true" tabindex="-1"></a>        <span class="at">legend.key.width =</span> <span class="fu">unit</span>(<span class="dv">4</span>, <span class="st">'cm'</span>),</span>
+<span id="cb4-92"><a href="#cb4-92" aria-hidden="true" tabindex="-1"></a>        <span class="at">plot.title =</span> <span class="fu">element_text</span>(<span class="at">hjust =</span> <span class="fl">0.5</span>, <span class="at">size=</span> <span class="dv">25</span>)) <span class="sc">+</span></span>
+<span id="cb4-93"><a href="#cb4-93" aria-hidden="true" tabindex="-1"></a>  <span class="fu">labs</span>(<span class="at">x=</span><span class="st">"Sample Date"</span>, <span class="at">y=</span><span class="st">"Nitrate Content</span><span class="sc">\n</span><span class="st">(μg/L)"</span>, <span class="at">title =</span> <span class="st">"Effects of Hurricane Maria on Nitrate Content in Luquillo Creeks"</span>)</span></code><button title="Copy to Clipboard" class="code-copy-button"><i class="bi"></i></button></pre></div>
 </div>
-<div class="sourceCode cell-code" id="cb5"><pre class="sourceCode r code-with-copy"><code class="sourceCode r"><span id="cb5-1"><a href="#cb5-1" aria-hidden="true" tabindex="-1"></a>no3_n_maria</span></code><button title="Copy to Clipboard" class="code-copy-button"><i class="bi"></i></button></pre></div>
-<div class="cell-output-display">
-<p><img src="ggplot_gurus_report_files/figure-html/unnamed-chunk-4-2.png" class="img-fluid" width="672"></p>
-</div>
-</div>
+<p><img src="k_plot_maria.png" class="img-fluid"></p>
+<p><img src="n03_plot_maria.png" class="img-fluid"></p>
 </section>
 
 </main>
